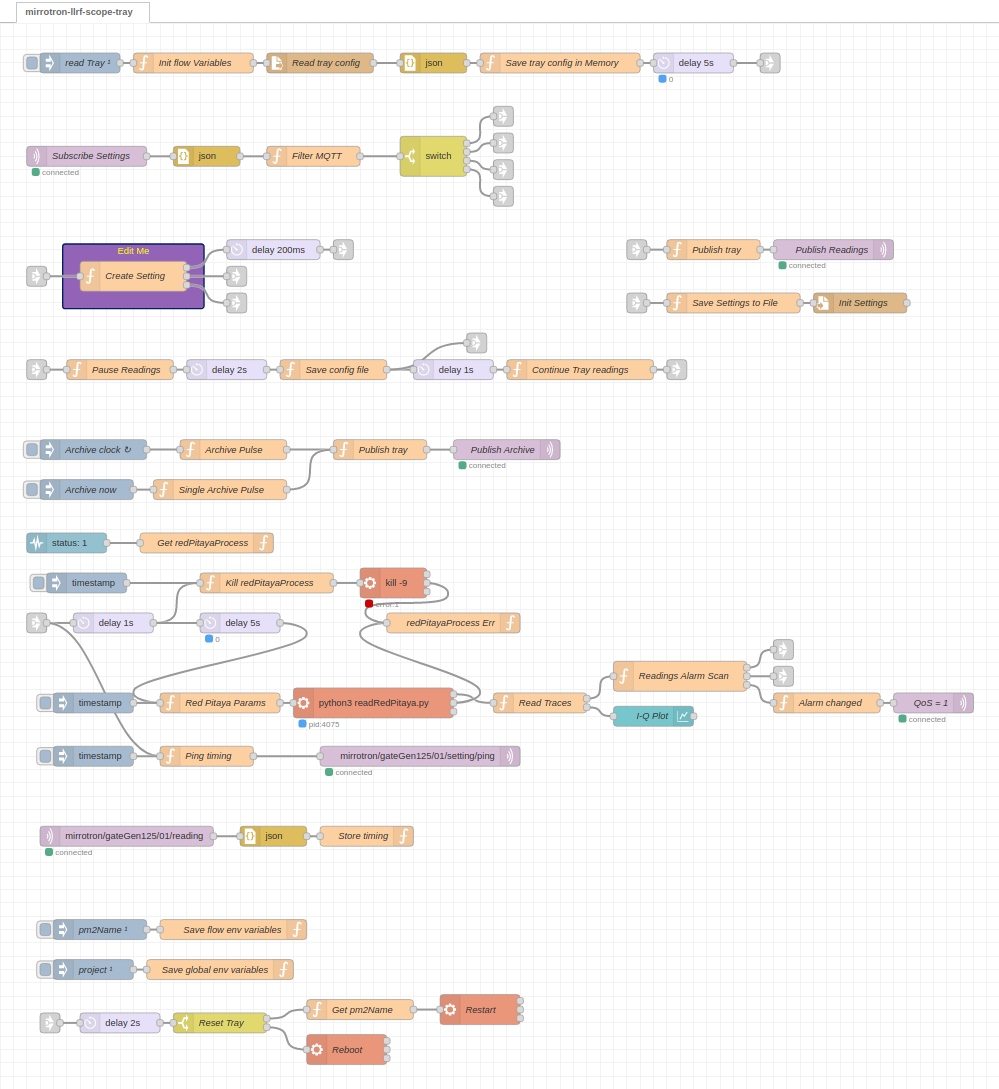
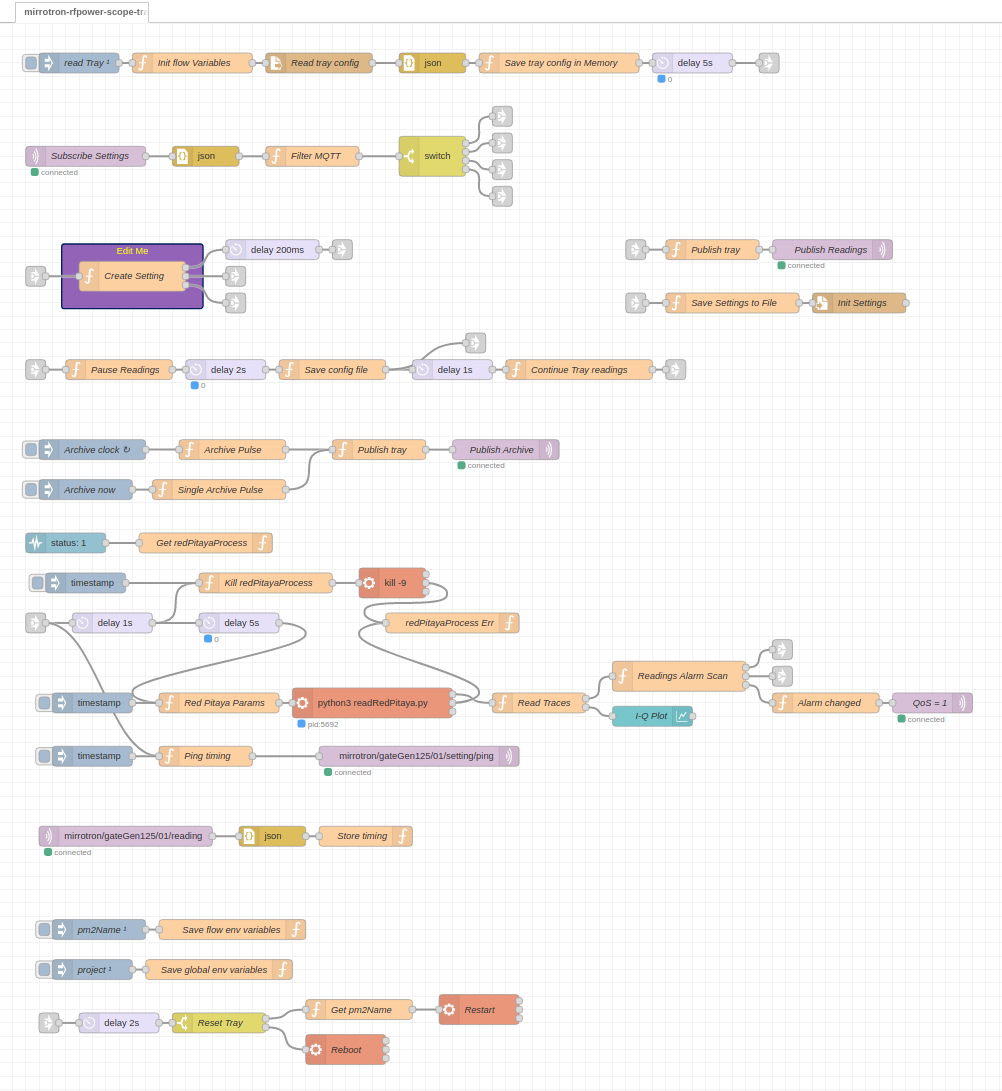
update README.md

diff --git a/README.md b/README.md
@@ -1,27 +1,29 @@
-# IQ Monitor System
-* mirrotron-llrf-scope-tray <a href="https://github.com/bl-mirrotron/mirrotron-llrf-scope-tray" target="_blank">source code</a>
+# RF Power Monitor System
+* mirrotron-rfpower-scope-tray <a href="https://github.com/bl-mirrotron/mirrotron-rfpower-scope-tray" target="_blank">source code</a>
 * [RF Source Overview](https://bl-mirrotron.github.io/#rf-src)
 
-The <a href="https://bl-mirrotron.github.io/mirrotron-phase-detector-tray/" target="_blank">Four Quadrant IQ Phase Detector</a> provides in-phase and out-of-phase signals of the cavity field with respect to the <a href="https://bl-mirrotron.github.io/mirrotron-rf-src-tray/" target="_blank">RF Frequency source</a> signal. These signals are not only used for phase-locking the RF Frequency source to the RFQ resonance but are a valuable diagnostic. The Blinky-Lite<sup>TM</sup> control platform supports vector devices so this diagnostic can be viewed remotely as shown in Figure 1. The <a href="https://redpitaya.com/product-category/stemlab-125-14/" target="_blank">Red Pitaya Stemlab 125-14</a> platform can be used as an inexpensive headless vector data acquisition system (i.e. oscilloscope) instead of using an expensive oscilloscope with display.
+The RF Power amplifier has a directional 75dB directional coupler mounted on the RF output port. The forward and reflected RF power signals provides are available on the front panel of the RF Power amplifier. These signals are of critical importance to determine if there has been a RF arc inside the cavity or if the cavity is in tune with the <a href="https://bl-mirrotron.github.io/#rf-src" target="_blank">RF Frequency source</a>. RF Diode detectors mounted on the forward and reflected RF outputs can provide the envelope of the RF waveforms which in turn can be digitized and monitored  at much lower sampling rates than would be required for monitoring a 200 MHz signal as shown in Figure 1.
 
-To use the Red Pitaya Stemlab 125-14 as a headless vector data acquisition system, the SCPI server on the Red Pitaya Stemlab 125-14 must be <a href="https://forum.redpitaya.com/viewtopic.php?t=2054" target="_blank">enabled</a>. A Python script that continuously acquires vector data from the Red Pitaya was <a href="https://github.com/bl-mirrotron/mirrotron-llrf-scope-tray/blob/master/readRedPitaya.py" target="_blank">written</a>. Since the Red Pitaya Stemlab 125-14 is a Linux computer, a Blinky-Lite<sup>TM</sup> tray can be directly installed on the Red Pitaya Stemlab 125-14. The tray code is written in the <a href="https://nodered.org/" target="_blank">Node-RED</a> programming environment as shown in Figure 2. The tray flow is a modified version of the standard  Blinky-Lite<sup>TM</sup> tray for serial communications. The modified tray flow calls the Python script using an Node-RED Exec node. The script continuously pipes the binary vector data to the stdout which the Exec node pickups and is decoded in the subsequent function node "Read Traces". The data is then packaged in vector format and sent to the <a href="https://bl-mirrotron.github.io/mirrotron-box/" target="_blank">Mirrotron Application Server</a>. There is a <a href="https://flows.nodered.org/node/node-red-dashboard" target="_blank">Node-RED Dashboard</a> node down stream of the "Read "Traces" function node that can be used to plot the vectors locally for debugging purposes.
+The Blinky-Lite<sup>TM</sup> control platform supports vector devices so this diagnostic can be viewed remotely as shown in Figure 1. The <a href="https://redpitaya.com/product-category/stemlab-125-14/" target="_blank">Red Pitaya Stemlab 125-14</a> platform can be used as an inexpensive headless vector data acquisition system (i.e. oscilloscope) instead of using an expensive oscilloscope with display.
 
-The IQ monitor requires a number of parameters to be set for correct operation.
+To use the Red Pitaya Stemlab 125-14 as a headless vector data acquisition system, the SCPI server on the Red Pitaya Stemlab 125-14 must be <a href="https://forum.redpitaya.com/viewtopic.php?t=2054" target="_blank">enabled</a>. A Python script that continuously acquires vector data from the Red Pitaya was <a href="https://github.com/bl-mirrotron/mirrotron-rfpower-scope-tray/blob/master/readRedPitaya.py" target="_blank">written</a>. Since the Red Pitaya Stemlab 125-14 is a Linux computer, a Blinky-Lite<sup>TM</sup> tray can be directly installed on the Red Pitaya Stemlab 125-14. The tray code is written in the <a href="https://nodered.org/" target="_blank">Node-RED</a> programming environment as shown in Figure 2. The tray flow is a modified version of the standard  Blinky-Lite<sup>TM</sup> tray for serial communications. The modified tray flow calls the Python script using an Node-RED Exec node. The script continuously pipes the binary vector data to the stdout which the Exec node pickups and is decoded in the subsequent function node "Read Traces". The data is then packaged in vector format and sent to the <a href="https://bl-mirrotron.github.io/mirrotron-box/" target="_blank">Mirrotron Application Server</a>. There is a <a href="https://flows.nodered.org/node/node-red-dashboard" target="_blank">Node-RED Dashboard</a> node down stream of the "Read "Traces" function node that can be used to plot the vectors locally for debugging purposes.
+
+The RF Power monitor requires a number of parameters to be set for correct operation.
 * The loopDelay determines the interval that the Python Script returns vectors.
-* The monitor is triggered using the <a href="https://redpitaya.readthedocs.io/en/latest/developerGuide/hardware/125-14/extent.html" target="_blank">DIO0_P pin</a> on the Red Pitaya. The source of the trigger comes from Channel 1 of the <a href="https://bl-mirrotron.github.io/#timing-system" target="_blank">Timing system</a>.
+* The monitor is triggered using the <a href="https://redpitaya.readthedocs.io/en/latest/developerGuide/hardware/125-14/extent.html" target="_blank">DIO0_P pin</a> on the Red Pitaya. The source of the trigger comes from Channel 4 of the <a href="https://bl-mirrotron.github.io/#timing-system" target="_blank">Timing system</a>.
 * The preTrigger defines how much data to acquire before the trigger start.
 * The decimation power determines the sample rate of the acquistion.
   - A decimation power of 8 gives a sample rate of (125 / 2<sup>8</sup>) MS/sec = 488kSamples/sec
 * The recordLengthPower determines number of points in the record.
   - A record length of 10 gives 1024 points.
 
-The IQ monitor provides a sampled output taken from the middle of the RF pulse of the magnitude and phase. The sampled output is averaged over 10% of the RF pulse.
+The RF power monitor provides a sampled output taken from the middle of the RF pulse of the forward and reflected power. The sampled output is averaged over 10% of the RF pulse.
 
-<p></p><p style="text-align:center;font-size: large;"><span style="font-weight: bold;color: green;">Figure 1. </span> <span style="font-style: italic;"> IQ Monitor Display</span></p>
+<p></p><p style="text-align:center;font-size: large;"><span style="font-weight: bold;color: green;">Figure 1. </span> <span style="font-style: italic;"> RF Power Monitor Display</span></p>
 <div style="width:100%;text-align:center;"><img width="100%" style="border-style:solid;border-color:#1c6e97;" src="doc/rfPowerScopeDisplay.png"/></div><br>
 
-<p></p><p style="text-align:center;font-size: large;"><span style="font-weight: bold;color: green;">Figure 2. </span> <span style="font-style: italic;"> IQ Monitor System Blinky-Lite<sup>TM</sup>Tray Node-RED flow</span></p>
+<p></p><p style="text-align:center;font-size: large;"><span style="font-weight: bold;color: green;">Figure 2. </span> <span style="font-style: italic;"> RF Power Monitor System Blinky-Lite<sup>TM</sup>Tray Node-RED flow</span></p>
 <div style="width:100%;text-align:center;"><img width="100%" style="border-style:solid;border-color:#1c6e97;" src="doc/rfPowerScopeTray.png"/></div><br>
 
-<p></p><p style="text-align:center;font-size: large;"><span style="font-weight: bold;color: green;">Figure 3. </span> <span style="font-style: italic;"> IQ Monitor parameters</span></p>
+<p></p><p style="text-align:center;font-size: large;"><span style="font-weight: bold;color: green;">Figure 3. </span> <span style="font-style: italic;"> RF Power Monitor parameters</span></p>
 <div style="width:100%;text-align:center;"><img width="100%" style="border-style:solid;border-color:#1c6e97;" src="doc/rfPowerScopeParam.png"/></div><br>
